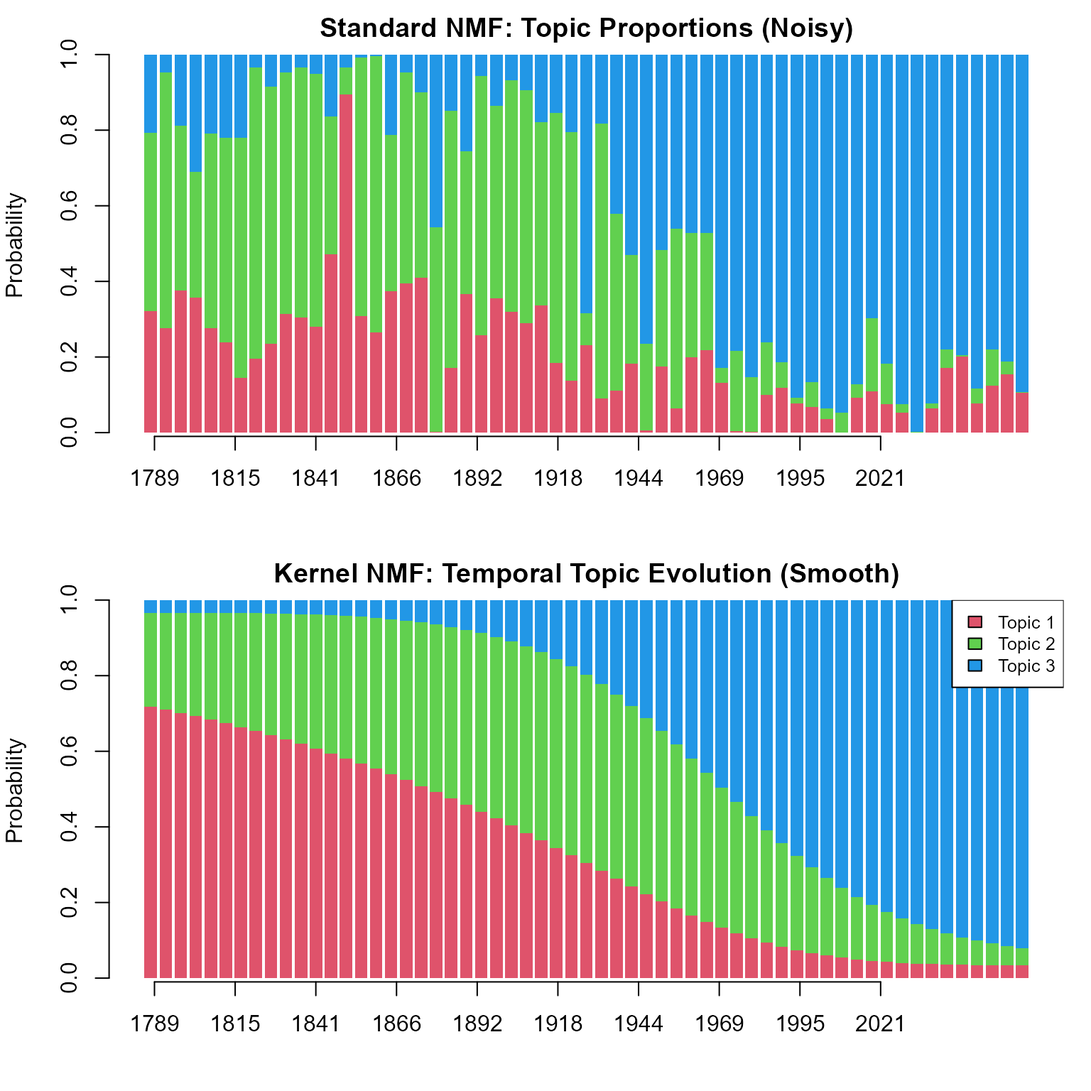
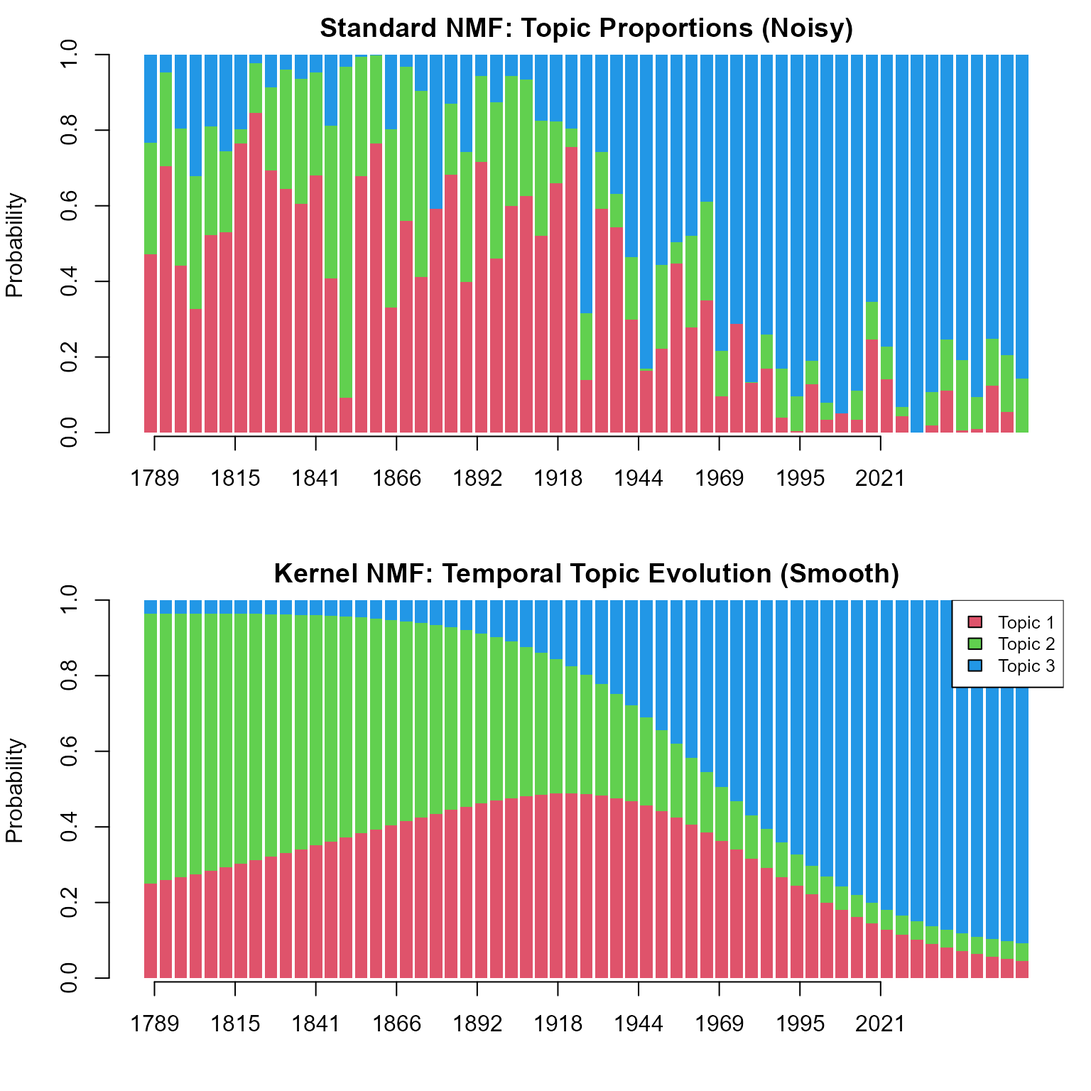
20251223 0732

diff --git a/docs/articles/topic-modeling-with-nmfkc.html b/docs/articles/topic-modeling-with-nmfkc.html
@@ -153,17 +153,20 @@ documents and columns represent words.</p>
 <span><span class="co"># Create DFM and filter</span></span>
 <span><span class="va">df</span> <span class="op">&lt;-</span> <span class="fu"><a href="https://quanteda.io/reference/dfm.html" class="external-link">dfm</a></span><span class="op">(</span><span class="va">tok</span><span class="op">)</span></span>
 <span><span class="va">df</span> <span class="op">&lt;-</span> <span class="fu"><a href="https://quanteda.io/reference/dfm_select.html" class="external-link">dfm_select</a></span><span class="op">(</span><span class="va">df</span>, min_nchar <span class="op">=</span> <span class="fl">3</span><span class="op">)</span> <span class="co"># Remove short words (&lt;= 2 chars)</span></span>
-<span><span class="va">df</span> <span class="op">&lt;-</span> <span class="fu"><a href="https://quanteda.io/reference/dfm_trim.html" class="external-link">dfm_trim</a></span><span class="op">(</span><span class="va">df</span>, min_termfreq <span class="op">=</span> <span class="fl">50</span><span class="op">)</span> <span class="co"># Remove rare words (appearing &lt; 50 times)</span></span>
+<span><span class="va">df</span> <span class="op">&lt;-</span> <span class="fu"><a href="https://quanteda.io/reference/dfm_trim.html" class="external-link">dfm_trim</a></span><span class="op">(</span><span class="va">df</span>, min_termfreq <span class="op">=</span> <span class="fl">100</span><span class="op">)</span> <span class="co"># Remove rare words (appearing &lt; 100 times)</span></span>
 <span></span>
 <span><span class="co"># --- CRITICAL STEP ---</span></span>
 <span><span class="co"># quanteda's DFM is (Documents x Words).</span></span>
 <span><span class="co"># nmfkc expects (Words x Documents).</span></span>
 <span><span class="co"># We must transpose the matrix.</span></span>
 <span><span class="va">d</span> <span class="op">&lt;-</span> <span class="fu"><a href="https://rdrr.io/r/base/matrix.html" class="external-link">as.matrix</a></span><span class="op">(</span><span class="va">df</span><span class="op">)</span></span>
+<span><span class="co"># Sort by frequency</span></span>
+<span><span class="va">index</span> <span class="op">&lt;-</span> <span class="fu"><a href="https://rdrr.io/r/base/order.html" class="external-link">order</a></span><span class="op">(</span><span class="fu"><a href="https://rdrr.io/r/base/colSums.html" class="external-link">colSums</a></span><span class="op">(</span><span class="va">d</span><span class="op">)</span>, decreasing<span class="op">=</span><span class="cn">TRUE</span><span class="op">)</span> </span>
+<span><span class="va">d</span> <span class="op">&lt;-</span> <span class="va">d</span><span class="op">[</span>,<span class="va">index</span><span class="op">]</span></span>
 <span><span class="va">Y</span> <span class="op">&lt;-</span> <span class="fu"><a href="https://rdrr.io/r/base/t.html" class="external-link">t</a></span><span class="op">(</span><span class="va">d</span><span class="op">)</span></span>
 <span></span>
 <span><span class="fu"><a href="https://rdrr.io/r/base/dim.html" class="external-link">dim</a></span><span class="op">(</span><span class="va">Y</span><span class="op">)</span> <span class="co"># Features (Words) x Samples (Documents)</span></span>
-<span><span class="co">#&gt; [1] 204  59</span></span></code></pre></div>
+<span><span class="co">#&gt; [1] 67 59</span></span></code></pre></div>
 </div>
 <div class="section level2">
 <h2 id="rank-selection-number-of-topics">2. Rank Selection (Number of Topics)<a class="anchor" aria-label="anchor" href="#rank-selection-number-of-topics"></a>
@@ -181,55 +184,55 @@ model predicts them, providing a robust measure for rank selection
 <code class="sourceCode R"><span><span class="co"># Evaluate ranks from 2 to 6</span></span>
 <span><span class="co"># save.time=FALSE enables the robust Element-wise CV</span></span>
 <span><span class="fu"><a href="../reference/nmfkc.rank.html">nmfkc.rank</a></span><span class="op">(</span><span class="va">Y</span>, rank <span class="op">=</span> <span class="fl">2</span><span class="op">:</span><span class="fl">6</span>, save.time <span class="op">=</span> <span class="cn">FALSE</span><span class="op">)</span></span>
-<span><span class="co">#&gt; Y(204,59)~X(204,2)B(2,59)...0sec</span></span>
-<span><span class="co">#&gt; Y(204,59)~X(204,3)B(3,59)...0sec</span></span>
-<span><span class="co">#&gt; Y(204,59)~X(204,4)B(4,59)...0sec</span></span>
-<span><span class="co">#&gt; Y(204,59)~X(204,5)B(5,59)...0sec</span></span>
-<span><span class="co">#&gt; Y(204,59)~X(204,6)B(6,59)...0sec</span></span>
+<span><span class="co">#&gt; Y(67,59)~X(67,2)B(2,59)...0sec</span></span>
+<span><span class="co">#&gt; Y(67,59)~X(67,3)B(3,59)...0sec</span></span>
+<span><span class="co">#&gt; Y(67,59)~X(67,4)B(4,59)...0sec</span></span>
+<span><span class="co">#&gt; Y(67,59)~X(67,5)B(5,59)...0sec</span></span>
+<span><span class="co">#&gt; Y(67,59)~X(67,6)B(6,59)...0sec</span></span>
 <span><span class="co">#&gt; Running Element-wise CV (this may take time)...</span></span>
 <span><span class="co">#&gt; Performing Element-wise CV for Q = 2,3,4,5,6 (5-fold)...</span></span>
-<span><span class="co">#&gt; Y(204,59)~X(204,2)B(2,59)...0sec</span></span>
-<span><span class="co">#&gt; Y(204,59)~X(204,2)B(2,59)...0sec</span></span>
-<span><span class="co">#&gt; Y(204,59)~X(204,2)B(2,59)...0sec</span></span>
-<span><span class="co">#&gt; Y(204,59)~X(204,2)B(2,59)...0sec</span></span>
-<span><span class="co">#&gt; Y(204,59)~X(204,2)B(2,59)...0sec</span></span>
-<span><span class="co">#&gt; Y(204,59)~X(204,3)B(3,59)...0sec</span></span>
-<span><span class="co">#&gt; Y(204,59)~X(204,3)B(3,59)...0sec</span></span>
-<span><span class="co">#&gt; Y(204,59)~X(204,3)B(3,59)...0sec</span></span>
-<span><span class="co">#&gt; Y(204,59)~X(204,3)B(3,59)...0sec</span></span>
-<span><span class="co">#&gt; Y(204,59)~X(204,3)B(3,59)...0sec</span></span>
-<span><span class="co">#&gt; Y(204,59)~X(204,4)B(4,59)...0sec</span></span>
-<span><span class="co">#&gt; Y(204,59)~X(204,4)B(4,59)...0sec</span></span>
-<span><span class="co">#&gt; Y(204,59)~X(204,4)B(4,59)...0sec</span></span>
-<span><span class="co">#&gt; Y(204,59)~X(204,4)B(4,59)...0sec</span></span>
-<span><span class="co">#&gt; Y(204,59)~X(204,4)B(4,59)...0sec</span></span>
-<span><span class="co">#&gt; Y(204,59)~X(204,5)B(5,59)...0sec</span></span>
-<span><span class="co">#&gt; Y(204,59)~X(204,5)B(5,59)...0sec</span></span>
-<span><span class="co">#&gt; Y(204,59)~X(204,5)B(5,59)...0sec</span></span>
-<span><span class="co">#&gt; Y(204,59)~X(204,5)B(5,59)...0sec</span></span>
-<span><span class="co">#&gt; Y(204,59)~X(204,5)B(5,59)...0sec</span></span>
-<span><span class="co">#&gt; Y(204,59)~X(204,6)B(6,59)...0sec</span></span>
-<span><span class="co">#&gt; Y(204,59)~X(204,6)B(6,59)...0.1sec</span></span>
-<span><span class="co">#&gt; Y(204,59)~X(204,6)B(6,59)...0sec</span></span>
-<span><span class="co">#&gt; Y(204,59)~X(204,6)B(6,59)...0sec</span></span>
-<span><span class="co">#&gt; Y(204,59)~X(204,6)B(6,59)...0sec</span></span></code></pre></div>
+<span><span class="co">#&gt; Y(67,59)~X(67,2)B(2,59)...0sec</span></span>
+<span><span class="co">#&gt; Y(67,59)~X(67,2)B(2,59)...0sec</span></span>
+<span><span class="co">#&gt; Y(67,59)~X(67,2)B(2,59)...0sec</span></span>
+<span><span class="co">#&gt; Y(67,59)~X(67,2)B(2,59)...0sec</span></span>
+<span><span class="co">#&gt; Y(67,59)~X(67,2)B(2,59)...0sec</span></span>
+<span><span class="co">#&gt; Y(67,59)~X(67,3)B(3,59)...0sec</span></span>
+<span><span class="co">#&gt; Y(67,59)~X(67,3)B(3,59)...0sec</span></span>
+<span><span class="co">#&gt; Y(67,59)~X(67,3)B(3,59)...0sec</span></span>
+<span><span class="co">#&gt; Y(67,59)~X(67,3)B(3,59)...0sec</span></span>
+<span><span class="co">#&gt; Y(67,59)~X(67,3)B(3,59)...0sec</span></span>
+<span><span class="co">#&gt; Y(67,59)~X(67,4)B(4,59)...0sec</span></span>
+<span><span class="co">#&gt; Y(67,59)~X(67,4)B(4,59)...0sec</span></span>
+<span><span class="co">#&gt; Y(67,59)~X(67,4)B(4,59)...0sec</span></span>
+<span><span class="co">#&gt; Y(67,59)~X(67,4)B(4,59)...0sec</span></span>
+<span><span class="co">#&gt; Y(67,59)~X(67,4)B(4,59)...0sec</span></span>
+<span><span class="co">#&gt; Y(67,59)~X(67,5)B(5,59)...0sec</span></span>
+<span><span class="co">#&gt; Y(67,59)~X(67,5)B(5,59)...0sec</span></span>
+<span><span class="co">#&gt; Y(67,59)~X(67,5)B(5,59)...0sec</span></span>
+<span><span class="co">#&gt; Y(67,59)~X(67,5)B(5,59)...0sec</span></span>
+<span><span class="co">#&gt; Y(67,59)~X(67,5)B(5,59)...0sec</span></span>
+<span><span class="co">#&gt; Y(67,59)~X(67,6)B(6,59)...0sec</span></span>
+<span><span class="co">#&gt; Y(67,59)~X(67,6)B(6,59)...0sec</span></span>
+<span><span class="co">#&gt; Y(67,59)~X(67,6)B(6,59)...0sec</span></span>
+<span><span class="co">#&gt; Y(67,59)~X(67,6)B(6,59)...0sec</span></span>
+<span><span class="co">#&gt; Y(67,59)~X(67,6)B(6,59)...0sec</span></span></code></pre></div>
 <p><img src="topic-modeling-with-nmfkc_files/figure-html/rank-selection-1.png" width="672"></p>
 <pre><code><span><span class="co">#&gt; $rank.best</span></span>
 <span><span class="co">#&gt; [1] 2</span></span>
 <span><span class="co">#&gt; </span></span>
 <span><span class="co">#&gt; $criteria</span></span>
-<span><span class="co">#&gt;   rank r.squared       ICp      AIC      BIC B.prob.sd.min B.prob.entropy.mean</span></span>
-<span><span class="co">#&gt; 1    2 0.5533924  37.65518 18393.35 22268.68     0.3457205           0.5845892</span></span>
-<span><span class="co">#&gt; 2    3 0.5941030  55.66664 17767.02 23580.01     0.1536632           0.6637765</span></span>
-<span><span class="co">#&gt; 3    4 0.6285527  73.68498 17223.59 24974.23     0.1323326           0.6661412</span></span>
-<span><span class="co">#&gt; 4    5 0.6565263  91.71388 16807.10 26495.41     0.1207275           0.6558215</span></span>
-<span><span class="co">#&gt; 5    6 0.6830576 109.74059 16364.42 27990.39     0.1291896           0.6490900</span></span>
+<span><span class="co">#&gt;   rank r.squared      ICp      AIC      BIC B.prob.sd.min B.prob.entropy.mean</span></span>
+<span><span class="co">#&gt; 1    2 0.5714525 19.39498 8869.595 10440.15     0.3476271           0.5889663</span></span>
+<span><span class="co">#&gt; 2    3 0.6129089 27.93205 8717.283 11073.12     0.1582146           0.6624310</span></span>
+<span><span class="co">#&gt; 3    4 0.6535278 36.46005 8529.063 11670.18     0.1301392           0.6519002</span></span>
+<span><span class="co">#&gt; 4    5 0.6866667 44.99848 8382.099 12308.49     0.1227179           0.6572496</span></span>
+<span><span class="co">#&gt; 5    6 0.7186176 53.52984 8207.187 12918.86     0.1151692           0.6642655</span></span>
 <span><span class="co">#&gt;   B.prob.max.mean       ARI silhouette      CPCC  dist.cor sigma.ecv</span></span>
-<span><span class="co">#&gt; 1       0.8190118        NA  0.7506465 0.9306425 0.8886148  2.284836</span></span>
-<span><span class="co">#&gt; 2       0.6797261 0.7224439  0.5497821 0.9213624 0.9084099  2.421535</span></span>
-<span><span class="co">#&gt; 3       0.6079841 0.5299410  0.4586054 0.9082198 0.9296355  2.738010</span></span>
-<span><span class="co">#&gt; 4       0.5699106 0.6070068  0.3781011 0.9246659 0.9291057  2.950237</span></span>
-<span><span class="co">#&gt; 5       0.5258122 0.6750738  0.3171195 0.8751251 0.9338937  3.024230</span></span></code></pre>
+<span><span class="co">#&gt; 1       0.8186375        NA  0.7456899 0.9220031 0.9049180  3.287153</span></span>
+<span><span class="co">#&gt; 2       0.6805368 0.7493380  0.5141000 0.9041294 0.9128002  3.675603</span></span>
+<span><span class="co">#&gt; 3       0.6102601 0.5737936  0.4743689 0.8675133 0.9239746  4.278131</span></span>
+<span><span class="co">#&gt; 4       0.5510541 0.6236933  0.3397598 0.8782690 0.9283578  4.621801</span></span>
+<span><span class="co">#&gt; 5       0.5142690 0.6637536  0.3059911 0.8701347 0.9274730  4.683195</span></span></code></pre>
 <p>Looking at the diagnostics (e.g., the minimum ECV Sigma, the elbow of
 the R-squared curve, or high Cophenetic Correlation), let’s assume
 <strong>Rank = 3</strong> is a reasonable choice for this overview.</p>
@@ -254,11 +257,11 @@ with <code>rank = 3</code>. In the context of topic modeling:</p>
 <code class="sourceCode R"><span><span class="va">rank</span> <span class="op">&lt;-</span> <span class="fl">3</span></span>
 <span><span class="co"># Set seed for reproducibility</span></span>
 <span><span class="va">res_std</span> <span class="op">&lt;-</span> <span class="fu"><a href="../reference/nmfkc.html">nmfkc</a></span><span class="op">(</span><span class="va">Y</span>, rank <span class="op">=</span> <span class="va">rank</span>, seed <span class="op">=</span> <span class="fl">123</span>, prefix <span class="op">=</span> <span class="st">"Topic"</span><span class="op">)</span></span>
-<span><span class="co">#&gt; Y(204,59)~X(204,3)B(3,59)...0sec</span></span>
+<span><span class="co">#&gt; Y(67,59)~X(67,3)B(3,59)...0sec</span></span>
 <span></span>
 <span><span class="co"># Check Goodness of Fit (R-squared)</span></span>
 <span><span class="va">res_std</span><span class="op">$</span><span class="va">r.squared</span></span>
-<span><span class="co">#&gt; [1] 0.594103</span></span></code></pre></div>
+<span><span class="co">#&gt; [1] 0.6129089</span></span></code></pre></div>
 <div class="section level3">
 <h3 id="interpreting-topics-keywords">Interpreting Topics (Keywords)<a class="anchor" aria-label="anchor" href="#interpreting-topics-keywords"></a>
 </h3>
@@ -267,13 +270,32 @@ with the highest weights in the basis matrix <code>X</code>.</p>
 <div class="sourceCode" id="cb6"><pre class="downlit sourceCode r">
 <code class="sourceCode R"><span><span class="co"># Extract top 10 words for each topic from X.prob (normalized X)</span></span>
 <span><span class="va">Xp</span> <span class="op">&lt;-</span> <span class="va">res_std</span><span class="op">$</span><span class="va">X.prob</span></span>
-<span><span class="kw">for</span><span class="op">(</span><span class="va">k</span> <span class="kw">in</span> <span class="fl">1</span><span class="op">:</span><span class="va">rank</span><span class="op">)</span><span class="op">{</span></span>
-<span>  <span class="va">top_words</span> <span class="op">&lt;-</span> <span class="fu"><a href="https://rdrr.io/r/base/names.html" class="external-link">names</a></span><span class="op">(</span><span class="fu"><a href="https://rdrr.io/r/base/sort.html" class="external-link">sort</a></span><span class="op">(</span><span class="va">Xp</span><span class="op">[</span>,<span class="va">k</span><span class="op">]</span>, decreasing <span class="op">=</span> <span class="cn">TRUE</span><span class="op">)</span><span class="op">[</span><span class="fl">1</span><span class="op">:</span><span class="fl">10</span><span class="op">]</span><span class="op">)</span></span>
-<span>  <span class="fu"><a href="https://rdrr.io/r/base/cat.html" class="external-link">cat</a></span><span class="op">(</span><span class="fu"><a href="https://rdrr.io/r/base/paste.html" class="external-link">paste0</a></span><span class="op">(</span><span class="st">"Topic "</span>, <span class="va">k</span>, <span class="st">" Keywords: "</span>, <span class="fu"><a href="https://rdrr.io/r/base/paste.html" class="external-link">paste</a></span><span class="op">(</span><span class="va">top_words</span>, collapse <span class="op">=</span> <span class="st">", "</span><span class="op">)</span>, <span class="st">"\n"</span><span class="op">)</span><span class="op">)</span></span>
+<span><span class="kw">for</span><span class="op">(</span><span class="va">q</span> <span class="kw">in</span> <span class="fl">1</span><span class="op">:</span><span class="va">rank</span><span class="op">)</span><span class="op">{</span></span>
+<span>  <span class="fu"><a href="https://rdrr.io/r/base/message.html" class="external-link">message</a></span><span class="op">(</span><span class="fu"><a href="https://rdrr.io/r/base/paste.html" class="external-link">paste0</a></span><span class="op">(</span><span class="st">"----- Featured words on Topic ["</span>, <span class="va">q</span>, <span class="st">"] -----"</span><span class="op">)</span><span class="op">)</span></span>
+<span>  <span class="fu"><a href="https://rdrr.io/r/base/print.html" class="external-link">print</a></span><span class="op">(</span><span class="fu"><a href="https://rdrr.io/r/base/paste.html" class="external-link">paste0</a></span><span class="op">(</span><span class="fu"><a href="https://rdrr.io/r/base/colnames.html" class="external-link">rownames</a></span><span class="op">(</span><span class="va">Xp</span><span class="op">)</span>, <span class="st">"("</span>, <span class="fu"><a href="https://rdrr.io/r/base/colSums.html" class="external-link">rowSums</a></span><span class="op">(</span><span class="va">Y</span><span class="op">)</span>, <span class="st">") "</span>, <span class="fu"><a href="https://rdrr.io/r/base/Round.html" class="external-link">round</a></span><span class="op">(</span><span class="fl">100</span><span class="op">*</span><span class="va">Xp</span><span class="op">[</span>,<span class="va">q</span><span class="op">]</span>, <span class="fl">1</span><span class="op">)</span>, <span class="st">"%"</span><span class="op">)</span><span class="op">[</span><span class="va">Xp</span><span class="op">[</span>,<span class="va">q</span><span class="op">]</span><span class="op">&gt;=</span><span class="fl">0.5</span><span class="op">]</span><span class="op">)</span></span>
 <span><span class="op">}</span></span>
-<span><span class="co">#&gt; Topic 1 Keywords: however, character, executive, citizen, power, principle, constitution, given, might, become</span></span>
-<span><span class="co">#&gt; Topic 2 Keywords: policy, commerce, protection, revenue, question, business, laws, trade, respect, duties</span></span>
-<span><span class="co">#&gt; Topic 3 Keywords: today, americans, america, help, together, know, live, let, lives, earth</span></span></code></pre></div>
+<span><span class="co">#&gt; ----- Featured words on Topic [1] -----</span></span>
+<span><span class="co">#&gt;  [1] "government(564) 54.1%" "states(334) 62.7%"     "shall(316) 59.3%"     </span></span>
+<span><span class="co">#&gt;  [4] "public(225) 72%"       "united(203) 68.1%"     "union(190) 53.9%"     </span></span>
+<span><span class="co">#&gt;  [7] "war(181) 65.4%"        "national(158) 66.8%"   "congress(130) 60.1%"  </span></span>
+<span><span class="co">#&gt; [10] "laws(130) 81.2%"       "law(129) 60%"          "just(128) 56.9%"      </span></span>
+<span><span class="co">#&gt; [13] "interests(115) 57.6%"  "among(108) 62.9%"      "foreign(104) 72.2%"</span></span>
+<span><span class="co">#&gt; ----- Featured words on Topic [2] -----</span></span>
+<span><span class="co">#&gt;  [1] "may(343) 56.7%"          "one(267) 57.7%"         </span></span>
+<span><span class="co">#&gt;  [3] "power(241) 91%"          "constitution(209) 88.6%"</span></span>
+<span><span class="co">#&gt;  [5] "spirit(140) 76.5%"       "rights(138) 62.4%"      </span></span>
+<span><span class="co">#&gt;  [7] "never(132) 57.2%"        "liberty(123) 69.8%"     </span></span>
+<span><span class="co">#&gt;  [9] "well(120) 61.2%"         "duty(120) 51%"          </span></span>
+<span><span class="co">#&gt; [11] "state(110) 76.1%"        "much(108) 53.3%"        </span></span>
+<span><span class="co">#&gt; [13] "powers(101) 65.7%"</span></span>
+<span><span class="co">#&gt; ----- Featured words on Topic [3] -----</span></span>
+<span><span class="co">#&gt;  [1] "must(376) 61.4%"     "world(319) 97.6%"    "nation(305) 63.6%"  </span></span>
+<span><span class="co">#&gt;  [4] "peace(258) 57.5%"    "new(250) 90.4%"      "time(220) 55.4%"    </span></span>
+<span><span class="co">#&gt;  [7] "america(202) 100%"   "nations(199) 57.8%"  "freedom(185) 80.3%" </span></span>
+<span><span class="co">#&gt; [10] "american(172) 59.9%" "let(160) 99.8%"      "make(147) 56.1%"    </span></span>
+<span><span class="co">#&gt; [13] "justice(142) 52.1%"  "life(138) 73.9%"     "work(124) 90.9%"    </span></span>
+<span><span class="co">#&gt; [16] "hope(120) 64.3%"     "know(111) 100%"      "fellow(110) 57.3%"  </span></span>
+<span><span class="co">#&gt; [19] "history(105) 79.4%"  "today(105) 100%"</span></span></code></pre></div>
 <p><em>(Note: Interpretation depends on the result. For example, one
 topic might contain words like “government, people, states” (Political),
 while another might have “world, peace, freedom”
@@ -307,9 +329,9 @@ using Cross-Validation.</p>
 <span><span class="co"># Run CV to find the best beta</span></span>
 <span><span class="co"># Note: We use the same rank (Q=3) as selected above.</span></span>
 <span><span class="va">cv_res</span> <span class="op">&lt;-</span> <span class="fu"><a href="../reference/nmfkc.kernel.beta.cv.html">nmfkc.kernel.beta.cv</a></span><span class="op">(</span><span class="va">Y</span>, rank <span class="op">=</span> <span class="va">rank</span>, U <span class="op">=</span> <span class="va">U</span>, beta <span class="op">=</span> <span class="va">beta_candidates</span>, plot <span class="op">=</span> <span class="cn">FALSE</span><span class="op">)</span></span>
-<span><span class="co">#&gt; beta=2e-05...0.2sec</span></span>
-<span><span class="co">#&gt; beta=5e-05...0.1sec</span></span>
-<span><span class="co">#&gt; beta=1e-04...0.1sec</span></span>
+<span><span class="co">#&gt; beta=2e-05...0.1sec</span></span>
+<span><span class="co">#&gt; beta=5e-05...0sec</span></span>
+<span><span class="co">#&gt; beta=1e-04...0sec</span></span>
 <span><span class="co">#&gt; beta=2e-04...0sec</span></span>
 <span><span class="co">#&gt; beta=5e-04...0sec</span></span>
 <span><span class="va">best_beta</span> <span class="op">&lt;-</span> <span class="va">cv_res</span><span class="op">$</span><span class="va">beta</span></span>
@@ -328,7 +350,7 @@ similar topic distributions.</p>
 <span></span>
 <span><span class="co"># Fit NMF with Kernel Covariates</span></span>
 <span><span class="va">res_ker</span> <span class="op">&lt;-</span> <span class="fu"><a href="../reference/nmfkc.html">nmfkc</a></span><span class="op">(</span><span class="va">Y</span>, A <span class="op">=</span> <span class="va">A</span>, rank <span class="op">=</span> <span class="va">rank</span>, seed <span class="op">=</span> <span class="fl">123</span>, prefix <span class="op">=</span> <span class="st">"Topic"</span><span class="op">)</span></span>
-<span><span class="co">#&gt; Y(204,59)~X(204,3)C(3,59)A(59,59)=XB(3,59)...0sec</span></span></code></pre></div>
+<span><span class="co">#&gt; Y(67,59)~X(67,3)C(3,59)A(59,59)=XB(3,59)...0sec</span></span></code></pre></div>
 </div>
 <div class="section level3">
 <h3 id="visualization-standard-vs-kernel-nmf">Visualization: Standard vs Kernel NMF<a class="anchor" aria-label="anchor" href="#visualization-standard-vs-kernel-nmf"></a>

diff --git a/docs/articles/nmf-sem-with-nmfkc.html b/docs/articles/nmf-sem-with-nmfkc.html
@@ -145,7 +145,6 @@ is stable, the model implies the equilibrium mapping</p>
 <code class="sourceCode R"><span><span class="va">d</span><span class="op">$</span><span class="va">age.rev</span> <span class="op">&lt;-</span> <span class="op">-</span><span class="op">(</span><span class="va">d</span><span class="op">$</span><span class="va">ageyr</span> <span class="op">+</span> <span class="va">d</span><span class="op">$</span><span class="va">agemo</span> <span class="op">/</span> <span class="fl">12</span><span class="op">)</span></span>
 <span><span class="va">d</span><span class="op">$</span><span class="va">sex.2</span> <span class="op">&lt;-</span> <span class="fu"><a href="https://rdrr.io/r/base/ifelse.html" class="external-link">ifelse</a></span><span class="op">(</span><span class="va">d</span><span class="op">$</span><span class="va">sex</span> <span class="op">==</span> <span class="fl">2</span>, <span class="fl">1</span>, <span class="fl">0</span><span class="op">)</span></span>
 <span><span class="va">d</span><span class="op">$</span><span class="va">school.GW</span> <span class="op">&lt;-</span> <span class="fu"><a href="https://rdrr.io/r/base/ifelse.html" class="external-link">ifelse</a></span><span class="op">(</span><span class="va">d</span><span class="op">$</span><span class="va">school</span> <span class="op">==</span> <span class="st">"Grant-White"</span>, <span class="fl">1</span>, <span class="fl">0</span><span class="op">)</span></span>
-<span></span>
 <span><span class="va">d</span><span class="op">[</span>, <span class="fu"><a href="https://rdrr.io/r/base/c.html" class="external-link">c</a></span><span class="op">(</span><span class="st">"id"</span>, <span class="st">"sex"</span>, <span class="st">"ageyr"</span>, <span class="st">"agemo"</span>, <span class="st">"school"</span>, <span class="st">"grade"</span><span class="op">)</span><span class="op">]</span> <span class="op">&lt;-</span> <span class="cn">NULL</span></span></code></pre></div>
 </div>
 <div class="section level3">
@@ -187,9 +186,45 @@ is stable, the model implies the equilibrium mapping</p>
 <span><span class="va">M.simple</span> <span class="op">&lt;-</span> <span class="va">res0</span><span class="op">$</span><span class="va">X</span> <span class="op"><a href="https://rdrr.io/r/base/matmult.html" class="external-link">%*%</a></span> <span class="va">res0</span><span class="op">$</span><span class="va">C</span></span></code></pre></div>
 </div>
 <div class="section level2">
-<h2 id="nmf-sem-estimation">4. NMF-SEM estimation<a class="anchor" aria-label="anchor" href="#nmf-sem-estimation"></a>
+<h2 id="hyperparameter-tuning-for-sparsity-optional">3.5 Hyperparameter Tuning for Sparsity (Optional)<a class="anchor" aria-label="anchor" href="#hyperparameter-tuning-for-sparsity-optional"></a>
 </h2>
 <div class="sourceCode" id="cb6"><pre class="downlit sourceCode r">
+<code class="sourceCode R"><span><span class="va">grid_params</span> <span class="op">&lt;-</span> <span class="fu"><a href="https://rdrr.io/r/base/expand.grid.html" class="external-link">expand.grid</a></span><span class="op">(</span></span>
+<span>    C1.L1     <span class="op">=</span> <span class="fu"><a href="https://rdrr.io/r/base/c.html" class="external-link">c</a></span><span class="op">(</span><span class="fl">0</span>,<span class="fl">1</span><span class="op">:</span><span class="fl">9</span><span class="op">/</span><span class="fl">10</span>,<span class="fl">1</span><span class="op">:</span><span class="fl">10</span><span class="op">)</span>,</span>
+<span>    C2.L1     <span class="op">=</span> <span class="fu"><a href="https://rdrr.io/r/base/c.html" class="external-link">c</a></span><span class="op">(</span><span class="fl">0</span>,<span class="fl">1</span><span class="op">:</span><span class="fl">9</span><span class="op">/</span><span class="fl">10</span>,<span class="fl">1</span><span class="op">:</span><span class="fl">10</span><span class="op">)</span></span>
+<span><span class="op">)</span></span>
+<span><span class="va">n_iter</span> <span class="op">&lt;-</span> <span class="fu"><a href="https://rdrr.io/r/base/nrow.html" class="external-link">nrow</a></span><span class="op">(</span><span class="va">grid_params</span><span class="op">)</span></span>
+<span><span class="va">mae.cv</span> <span class="op">&lt;-</span> <span class="fl">0</span><span class="op">*</span><span class="fl">1</span><span class="op">:</span><span class="va">n_iter</span></span>
+<span></span>
+<span><span class="kw">for</span><span class="op">(</span><span class="va">i</span> <span class="kw">in</span> <span class="fl">1</span><span class="op">:</span><span class="va">n_iter</span><span class="op">)</span><span class="op">{</span></span>
+<span>  <span class="kw">if</span> <span class="op">(</span><span class="va">i</span> <span class="op"><a href="https://rdrr.io/r/base/Arithmetic.html" class="external-link">%%</a></span> <span class="fu"><a href="https://rdrr.io/r/base/Round.html" class="external-link">round</a></span><span class="op">(</span><span class="va">n_iter</span> <span class="op">/</span> <span class="fl">10</span><span class="op">)</span> <span class="op">==</span> <span class="fl">0</span><span class="op">)</span> <span class="op">{</span></span>
+<span>    <span class="fu"><a href="https://rdrr.io/r/base/message.html" class="external-link">message</a></span><span class="op">(</span><span class="fu"><a href="https://rdrr.io/r/base/sprintf.html" class="external-link">sprintf</a></span><span class="op">(</span><span class="st">"Processing... %d%% (%d/%d)"</span>, <span class="fu"><a href="https://rdrr.io/r/base/Round.html" class="external-link">round</a></span><span class="op">(</span><span class="va">i</span><span class="op">/</span><span class="va">n_iter</span><span class="op">*</span><span class="fl">100</span><span class="op">)</span>, <span class="va">i</span>, <span class="va">n_iter</span><span class="op">)</span><span class="op">)</span> </span>
+<span>  <span class="op">}</span>  </span>
+<span>  <span class="va">p</span> <span class="op">&lt;-</span> <span class="va">grid_params</span><span class="op">[</span><span class="va">i</span>, <span class="op">]</span></span>
+<span>  <span class="va">res.cv</span> <span class="op">&lt;-</span> <span class="fu"><a href="../reference/nmf.sem.cv.html">nmf.sem.cv</a></span><span class="op">(</span><span class="va">Y1</span>, <span class="va">Y2</span>, rank <span class="op">=</span> <span class="va">Q0</span>,</span>
+<span>                       X.init <span class="op">=</span> <span class="va">res0</span><span class="op">$</span><span class="va">X</span>,</span>
+<span>                       X.L2.ortho <span class="op">=</span> <span class="fl">100</span>,</span>
+<span>                       C1.L1 <span class="op">=</span> <span class="va">p</span><span class="op">$</span><span class="va">C1.L1</span>,</span>
+<span>                       C2.L1 <span class="op">=</span> <span class="va">p</span><span class="op">$</span><span class="va">C2.L1</span>,</span>
+<span>                       seed <span class="op">=</span> <span class="fl">1</span>, epsilon <span class="op">=</span> <span class="va">myepsilon</span><span class="op">)</span></span>
+<span>  <span class="va">mae.cv</span><span class="op">[</span><span class="va">i</span><span class="op">]</span> <span class="op">&lt;-</span> <span class="va">res.cv</span></span>
+<span><span class="op">}</span></span>
+<span></span>
+<span><span class="va">f</span> <span class="op">&lt;-</span> <span class="fu"><a href="https://rdrr.io/r/base/data.frame.html" class="external-link">data.frame</a></span><span class="op">(</span><span class="va">grid_params</span>,<span class="va">mae.cv</span><span class="op">)</span></span>
+<span><span class="va">f</span> <span class="op">&lt;-</span> <span class="va">f</span><span class="op">[</span><span class="fu"><a href="https://rdrr.io/r/base/order.html" class="external-link">order</a></span><span class="op">(</span><span class="va">f</span><span class="op">$</span><span class="va">mae.cv</span><span class="op">)</span>,<span class="op">]</span></span>
+<span><span class="fu"><a href="https://rdrr.io/r/utils/head.html" class="external-link">head</a></span><span class="op">(</span><span class="va">f</span>,<span class="fl">5</span><span class="op">)</span></span>
+<span><span class="co">#    C2.L2.off C1.L1 C2.L1    mae.cv</span></span>
+<span><span class="co">#140         0    10   0.6 0.1820841</span></span>
+<span><span class="co">#160         0    10   0.7 0.1820843</span></span>
+<span><span class="co">#180         0    10   0.8 0.1820877</span></span>
+<span><span class="co">#200         0    10   0.9 0.1820907</span></span>
+<span><span class="co">#120         0    10   0.5 0.1820908</span></span>
+<span><span class="fu"><a href="https://rdrr.io/r/base/print.html" class="external-link">print</a></span><span class="op">(</span><span class="va">p</span> <span class="op">&lt;-</span> <span class="va">f</span><span class="op">[</span><span class="fl">1</span>,<span class="op">]</span><span class="op">)</span></span></code></pre></div>
+</div>
+<div class="section level2">
+<h2 id="nmf-sem-estimation">4. NMF-SEM estimation<a class="anchor" aria-label="anchor" href="#nmf-sem-estimation"></a>
+</h2>
+<div class="sourceCode" id="cb7"><pre class="downlit sourceCode r">
 <code class="sourceCode R"><span><span class="va">p</span> <span class="op">&lt;-</span> <span class="fu"><a href="https://rdrr.io/r/base/list.html" class="external-link">list</a></span><span class="op">(</span>C1.L1 <span class="op">=</span> <span class="fl">10</span>, C2.L1 <span class="op">=</span> <span class="fl">0.6</span><span class="op">)</span></span>
 <span></span>
 <span><span class="va">res</span> <span class="op">&lt;-</span> <span class="fu"><a href="../reference/nmf.sem.html">nmf.sem</a></span><span class="op">(</span></span>
@@ -201,16 +236,16 @@ is stable, the model implies the equilibrium mapping</p>
 <span>  C2.L1 <span class="op">=</span> <span class="va">p</span><span class="op">$</span><span class="va">C2.L1</span>,</span>
 <span>  epsilon <span class="op">=</span> <span class="va">myepsilon</span></span>
 <span><span class="op">)</span></span></code></pre></div>
-<div class="sourceCode" id="cb7"><pre class="downlit sourceCode r">
+<div class="sourceCode" id="cb8"><pre class="downlit sourceCode r">
 <code class="sourceCode R"><span><span class="fu"><a href="https://rdrr.io/r/base/plot.html" class="external-link">plot</a></span><span class="op">(</span><span class="va">res</span><span class="op">$</span><span class="va">objfunc.full</span>, type <span class="op">=</span> <span class="st">"l"</span>,</span>
 <span>     main <span class="op">=</span> <span class="st">"Objective Function"</span>,</span>
 <span>     ylab <span class="op">=</span> <span class="st">"Loss"</span>, xlab <span class="op">=</span> <span class="st">"Iteration"</span><span class="op">)</span></span></code></pre></div>
-<p><img src="nmf-sem-with-nmfkc_files/figure-html/unnamed-chunk-7-1.png" width="672"></p>
+<p><img src="nmf-sem-with-nmfkc_files/figure-html/unnamed-chunk-8-1.png" width="672"></p>
 </div>
 <div class="section level2">
 <h2 id="diagnostics">5. Diagnostics<a class="anchor" aria-label="anchor" href="#diagnostics"></a>
 </h2>
-<div class="sourceCode" id="cb8"><pre class="downlit sourceCode r">
+<div class="sourceCode" id="cb9"><pre class="downlit sourceCode r">
 <code class="sourceCode R"><span><span class="va">SC.map</span> <span class="op">&lt;-</span> <span class="fu"><a href="https://rdrr.io/r/stats/cor.html" class="external-link">cor</a></span><span class="op">(</span><span class="fu"><a href="https://rdrr.io/r/base/vector.html" class="external-link">as.vector</a></span><span class="op">(</span><span class="va">res</span><span class="op">$</span><span class="va">M.model</span><span class="op">)</span>,</span>
 <span>              <span class="fu"><a href="https://rdrr.io/r/base/vector.html" class="external-link">as.vector</a></span><span class="op">(</span><span class="va">M.simple</span><span class="op">)</span><span class="op">)</span></span>
 <span></span>
@@ -230,7 +265,7 @@ is stable, the model implies the equilibrium mapping</p>
 <div class="section level2">
 <h2 id="visualization">6. Visualization<a class="anchor" aria-label="anchor" href="#visualization"></a>
 </h2>
-<div class="sourceCode" id="cb9"><pre class="downlit sourceCode r">
+<div class="sourceCode" id="cb10"><pre class="downlit sourceCode r">
 <code class="sourceCode R"><span><span class="va">res.dot</span> <span class="op">&lt;-</span> <span class="fu"><a href="../reference/nmf.sem.DOT.html">nmf.sem.DOT</a></span><span class="op">(</span></span>
 <span>  <span class="va">res</span>,</span>
 <span>  weight_scale <span class="op">=</span> <span class="fl">5</span>,</span>

diff --git a/docs/articles/timeseries-with-nmfkc.html b/docs/articles/timeseries-with-nmfkc.html
@@ -178,19 +178,19 @@ dimension.</p>
 <span><span class="co"># Note: ts objects are automatically transposed to (Variables x Time) internally</span></span>
 <span><span class="va">cv_res</span> <span class="op">&lt;-</span> <span class="fu"><a href="../reference/nmfkc.ar.degree.cv.html">nmfkc.ar.degree.cv</a></span><span class="op">(</span><span class="va">d_air_log</span>, rank <span class="op">=</span> <span class="fl">1</span>, degree <span class="op">=</span> <span class="fl">1</span><span class="op">:</span><span class="fl">14</span>, epsilon<span class="op">=</span><span class="fl">1e-6</span>, maxit<span class="op">=</span><span class="fl">500000</span><span class="op">)</span></span>
 <span><span class="co">#&gt; degree=1...0.2sec</span></span>
-<span><span class="co">#&gt; degree=2...0.7sec</span></span>
-<span><span class="co">#&gt; degree=3...0.7sec</span></span>
+<span><span class="co">#&gt; degree=2...0.8sec</span></span>
+<span><span class="co">#&gt; degree=3...0.8sec</span></span>
 <span><span class="co">#&gt; degree=4...0.8sec</span></span>
-<span><span class="co">#&gt; degree=5...0.8sec</span></span>
+<span><span class="co">#&gt; degree=5...0.9sec</span></span>
 <span><span class="co">#&gt; degree=6...0.8sec</span></span>
 <span><span class="co">#&gt; degree=7...0.8sec</span></span>
-<span><span class="co">#&gt; degree=8...0.8sec</span></span>
-<span><span class="co">#&gt; degree=9...0.9sec</span></span>
+<span><span class="co">#&gt; degree=8...0.9sec</span></span>
+<span><span class="co">#&gt; degree=9...1sec</span></span>
 <span><span class="co">#&gt; degree=10...0.9sec</span></span>
-<span><span class="co">#&gt; degree=11...0.9sec</span></span>
+<span><span class="co">#&gt; degree=11...1sec</span></span>
 <span><span class="co">#&gt; degree=12...0.9sec</span></span>
-<span><span class="co">#&gt; degree=13...1sec</span></span>
-<span><span class="co">#&gt; degree=14...1sec</span></span></code></pre></div>
+<span><span class="co">#&gt; degree=13...1.1sec</span></span>
+<span><span class="co">#&gt; degree=14...1.1sec</span></span></code></pre></div>
 <p><img src="timeseries-with-nmfkc_files/figure-html/air-degree-cv-1.png" width="672"></p>
 <div class="sourceCode" id="cb4"><pre class="downlit sourceCode r">
 <code class="sourceCode R"><span></span>

diff --git a/docs/articles/classification-with-nmfkc.html b/docs/articles/classification-with-nmfkc.html
@@ -335,7 +335,7 @@ directly for a quick demonstration.</p>
 <span><span class="va">A_penguins</span> <span class="op">&lt;-</span> <span class="fu"><a href="../reference/nmfkc.kernel.html">nmfkc.kernel</a></span><span class="op">(</span><span class="va">U_penguins</span>, beta <span class="op">=</span> <span class="va">best_beta_penguins</span><span class="op">)</span></span>
 <span><span class="va">res_penguins</span> <span class="op">&lt;-</span> <span class="fu"><a href="../reference/nmfkc.html">nmfkc</a></span><span class="op">(</span>Y <span class="op">=</span> <span class="va">Y_penguins</span>, A <span class="op">=</span> <span class="va">A_penguins</span>, rank <span class="op">=</span> <span class="va">rank_penguins</span>, </span>
 <span>                      seed <span class="op">=</span> <span class="fl">123</span>, prefix <span class="op">=</span> <span class="st">"Class"</span><span class="op">)</span></span>
-<span><span class="co">#&gt; Y(3,333)~X(3,3)C(3,333)A(333,333)=XB(3,333)...0.1sec</span></span></code></pre></div>
+<span><span class="co">#&gt; Y(3,333)~X(3,3)C(3,333)A(333,333)=XB(3,333)...0.2sec</span></span></code></pre></div>
 </div>
 <div class="section level3">
 <h3 id="visualizing-soft-classification">3. Visualizing “Soft” Classification<a class="anchor" aria-label="anchor" href="#visualizing-soft-classification"></a>

diff --git a/docs/reference/nmfkc.ar.degree.cv.html b/docs/reference/nmfkc.ar.degree.cv.html
@@ -142,7 +142,7 @@ following the <code>ar</code> function in the <span class="pkg">stats</span> pac
 <span class="r-in"><span><span class="co"># Note: Y is automatically transposed if it is a ts object</span></span></span>
 <span class="r-in"><span><span class="fu">nmfkc.ar.degree.cv</span><span class="op">(</span>Y<span class="op">=</span><span class="va">d</span>, Q<span class="op">=</span><span class="fl">1</span>, degree<span class="op">=</span><span class="fl">11</span><span class="op">:</span><span class="fl">14</span><span class="op">)</span></span></span>
 <span class="r-msg co"><span class="r-pr">#&gt;</span> degree=11...</span>
-<span class="r-msg co"><span class="r-pr">#&gt;</span> 0sec</span>
+<span class="r-msg co"><span class="r-pr">#&gt;</span> 0.1sec</span>
 <span class="r-msg co"><span class="r-pr">#&gt;</span> degree=12...</span>
 <span class="r-msg co"><span class="r-pr">#&gt;</span> 0.1sec</span>
 <span class="r-msg co"><span class="r-pr">#&gt;</span> degree=13...</span>
